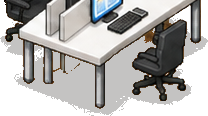
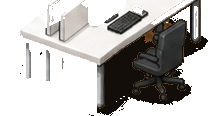
feat(web): office 桌套件重切与紫衣演示 B 位落座——后椅回 BACK、工位坐进近侧椅
- desk sprite 重切：后椅整把移回 BACK（208×167，含远侧显示器），FRONT 只留近侧桌面/前椅挡腿；URL 加 ?v=chair2 强刷 public/ 无 hash PNG
- constants 新增 purpleDemoSeat()：0 号接待员走 A 位（前台柜台后），工位紫衣走 B 位（近侧可见椅）
- B 位深度 = base+1 画在 front 之上，sprite 水平翻转朝向桌子（anchor 0.5 无位移）；A 位维持 base-1 挡腿
- rearChair 锚点重标定（dx=-50, dy=18）；working 打字帧对 A/B 两朝向均生效

diff --git a/apps/web/src/components/office/constants.ts b/apps/web/src/components/office/constants.ts
@@ -19,7 +19,8 @@ export const TILE_H = 32;
  * 7 个桌位，按背景图 office-scene-bg.png（1672×941，world = px / 1.30625）标定：
  *   中排 3 桌 + 下排 3 桌 + 前台柜台。坐标 = 该桌「落座基准点」，
  *   桌套件/椅位全部由 DESK_SET 的相对偏移从此点推出（角色腰线对齐桌远缘）。
- * 顺序即分配顺序，前台柜台放最后（6 agent 时不占用，留给 F 视角接待员）。
+ * 顺序即 getDesk() 的分配顺序；紫衣演示走 purpleDemoSeat()（0 号占前台柜台，
+ * 其余按工作位顺序坐 B 位近侧椅）。
  */
 export const DESKS: DeskSlot[] = [
   { id: "lead-1",   x: 747, y: 326, role: "lead" },   // 中排中桌
@@ -91,6 +92,21 @@ export function getDesk(agentIndex: number, role: string): DeskSlot {
   return pool[agentIndex % Math.max(pool.length, 1)] ?? DESKS[agentIndex % DESKS.length];
 }
 
+/**
+ * 紫衣演示落座：0 号接待员 A（柜台后），其余工位 B（近侧可见椅）。
+ * 近侧椅完整出现在画面里，人 zIndex 高于 front 才能「坐进椅子」；
+ * 远侧后椅只作空位（角色比椅背大，后座上看不见坐姿）。
+ */
+export function purpleDemoSeat(index: number): { desk: DeskSlot; variant: "A" | "B" } {
+  const reception = DESKS.find((d) => d.id === "review-2") ?? DESKS[DESKS.length - 1];
+  const work = DESKS.filter((d) => d.id !== "review-2");
+  if (index === 0) return { desk: reception, variant: "A" };
+  return {
+    desk: work[(index - 1) % Math.max(work.length, 1)],
+    variant: "B",
+  };
+}
+
 // ── Isometric Projection ──────────────────────────────────────────
 
 export function isoToScreen(tx: number, ty: number) {
@@ -121,11 +137,10 @@ export const ASSET_URLS = {
    *  不与角色交互的陈设；桌椅全部改由引擎 sprite 渲染。原带桌版备份
    *  office-scene-bg.with-desks.bak.png）。场景内缩到 WORLD_W×WORLD_H = 1280×720。 */
   OFFICE_BG: "/office-assets/office-scene-bg.png",
-  /** 分层家具 sprite（2026-08-30 差分抠图：带桌原图 − 去桌背景 = 前景，
-   *  100% 原场景像素/风格/光影）。桌套件按桌面上缘水平切两片：
-   *  BACK = 后椅+桌远侧（画在角色之下），FRONT = 桌面+显示器+前椅（画在角色之上，遮住躯干下半） */
-  OFFICE_DESK_BACK: "/office-assets/office-desk-back.png",
-  OFFICE_DESK_FRONT: "/office-assets/office-desk-front.png",
+  /** 分层家具 sprite。BACK = 后椅+远侧显示器；FRONT = 近侧桌面/前椅（挡腿）。
+   *  白桌面楔必须留在 FRONT。query 只为强刷 public/ 无 hash 的 PNG。 */
+  OFFICE_DESK_BACK: "/office-assets/office-desk-back.png?v=chair2",
+  OFFICE_DESK_FRONT: "/office-assets/office-desk-front.png?v=chair2",
   OFFICE_FRONTDESK_SET: "/office-assets/office-frontdesk-set.png",
   /** 紫衣女孩打字动画表（2026-08-30：参考图锚定生成，2×2 = 4 帧打字循环。
    *  实测为全身坐姿帧（非腰截断）：内容底 y=83 ≈ anchor 0.875×96=84，即 0.875 处是鞋底；
@@ -207,14 +222,14 @@ export const PURPLE_DEMO_ALL_AGENTS = true;
  * PURPLE_DEMO_ALL_AGENTS = false 即可按角色就位。
  *
  * ── 视角 / 遮挡硬约束（改动前务必读）─────────────────────────
- * 1. 演示角色强制 A 朝向（rearChair 后椅），与其余紫衣角色同朝向。
- *    B 朝向（frontChair）角色落在 front 片高度区间内且 zIndex 更低，
- *    会被「桌面+显示器+前椅」整片盖死，不可用于坐姿演示。
+ * 1. 接待员走 A（柜台后，无椅）。工位紫衣走 B（近侧可见椅）：zIndex = base+1
+ *    画在 front 片前面，人坐进那把空着的黑椅；scale.x 翻转朝向桌子。
+ *    远侧后椅留在 BACK，空着（角色比椅背大，后座上看不见「坐进椅子」）。
  * 2. 演示循环只在**坐姿系**状态间切换（working 打字 ↔ idle 坐姿呼吸），
  *    绝不触发 walking / talking / alert：
  *      - walking 序列会驱动角色离座平移，坐姿与桌面的遮挡关系当场失效；
  *      - talking/alert 序列在 dev sheet 中是站姿/跳跃帧，一旦播放人物会
- *        整个浮到桌面之上（A 位遮挡只有约 7.8px，压不住站立姿态）。
+ *        整个浮到桌面之上。
  * 3. 角色位置冻结在座位上（atDesk 恒 true），不做 roaming / 聚集位移。
  */
 export const FIRST_AGENT_FULL_ANIMATIONS = true;
@@ -247,9 +262,10 @@ export interface FurniturePiece {
 }
 
 /**
- * 桌套件几何（差分抠图 + 地板色清理 + 按桌面上缘切两片；world = px / 1.30625）。
- * 抠图取自 build-1 槽位（DESKS[2] = 510,278），偏移量均相对该槽位实测。
- * 深度三层：back（角色之下）→ 角色 → front（角色之上，桌面/显示器遮住躯干下半与前臂）。
+ * 桌套件几何（world = 原图像素 / 1.30625）。抠图取自 build-1 槽位（DESKS[2]）。
+ * 深度三层：back（后椅 + 远侧显示器，角色之下）→ 角色 → front（近侧桌面/前椅，挡腿）。
+ * FRONT 顶边按列走等距远缘 `y = -20.8 + 0.5*|rel_x|`；白桌面楔留在 FRONT，
+ * 禁止放进 BACK（人会坐到桌面上）。后椅整把在 BACK，椅背从肩后露出。
  */
 export const DESK_SET: {
   back: FurniturePiece | null;
@@ -257,27 +273,20 @@ export const DESK_SET: {
   rearChair: { dx: number; dy: number };
   frontChair: { dx: number; dy: number };
 } = {
-  back: { w: 153.9, h: 41.3, leftTop: { x: -75.9, y: -62.1 } },   // 桌远侧+显示器背（原座椅已抠除，见 rearChair 注）
+  back: { w: 159.2, h: 127.8, leftTop: { x: -78.2, y: -62.1 } },  // 208×167：后椅+远侧显示器
   front: { w: 159.2, h: 88.8, leftTop: { x: -78.2, y: -20.8 } },
   /**
    * 后椅（A 位）：锚点 x / 鞋底锚点 y（相对槽位，world 单位）。
-   * 2026-09-01 三次修正（扫参 + 浏览器实拍复核）：
-   *   dx=-55 → 人坐桌面左缘之外、腿悬空（用户截图①）；
-   *   dx=-15 → 人正落在隔板后面，front 片的隔板/桌面远缘在胸口横切躯干，
-   *             头与身体之间出现"割裂"缝（用户截图②）；
-   *   dx=-40, dy=-7 → 躯干完整无横切，但人偏高、腿露在桌外；
-   *   dx=-40, dy=8 → 隔板左侧不切身 + 桌面远缘切腰、腿隐入桌下
-   *             （.workbuddy/tmp/office_scan3.png 中排左格实测；行=dx{-48,-40,-32}、
-   *             列=dy{8,16,24}；dx>-32 会压到隔板（隔板世界 x≈-4 起），
-   *             dy>=16 头部沉到桌面线）。
+   * 2026-09-04：后椅从 BACK 抠除后人看起来坐在桌面上、近侧空椅才像「椅子」。
+   * 椅背加回 BACK 后扫参：dx=-50 对准椅心，dy=18 腰线贴近该列远缘（腿被 FRONT 挡住）。
+   * dx=-40 偏右离开椅背；dy=8 整个人压在桌面上。
    */
-  rearChair: { dx: -40.0, dy: 8.0 },
+  rearChair: { dx: -50.0, dy: 18.0 },
   /**
    * 前椅（B 位）椅面中心 x / 鞋底锚点 y（相对槽位）。
+   * 紫衣演示工位走这个座位：z 在 front 之上，人水平翻转朝向桌子。
    * 2026-08-31 实测：前椅完整可见，bbox rel_x 22.8..64.2（中心 43.5）、
-   * 椅背顶 -7.8、椅脚底 +55.8；按后椅「椅背顶→椅面顶 ≈ +19.5」的比例推得
-   * 椅面顶 ≈ +11.7，鞋底锚点 = 椅面顶 + 16.8（帧内臀底到鞋底距离 ×0.8）≈ +28.5。
-   * 旧值 (27.4, 61.2) 把鞋底放到椅脚处，坐姿会沉进椅子 33px。
+   * 椅背顶 -7.8、椅脚底 +55.8；椅面顶 ≈ +11.7，鞋底 = 椅面顶 + 16.8 ≈ +28.5。
    */
   frontChair: { dx: 43.5, dy: 28.5 },
 };
@@ -301,8 +310,8 @@ export function furnitureSet(desk: DeskSlot): FurnitureSet {
 
 /**
  * 深度基准线（world y）：取 front 片底边。
- * front 片 zIndex = base，落座角色 = base - 1，back 片 = base - 2 →
- * 「back → 角色 → front」三层顺序固定，且跨桌用同一基准线不产生穿插。
+ * front 片 zIndex = base；A 位角色 = base-1（被桌面挡腿），B 位 = base+1（坐进近侧椅）；
+ * back 片 = base-2。跨桌用同一基准线不产生穿插。
  */
 export function deskDepthBase(desk: DeskSlot): number {
   const set = furnitureSet(desk);

diff --git a/apps/web/src/components/office/OfficeScene.ts b/apps/web/src/components/office/OfficeScene.ts
@@ -32,6 +32,7 @@ import {
   MAX_VISIBLE_AGENTS,
   isoToScreen,
   getDesk,
+  purpleDemoSeat,
   ASSET_URLS,
   ASSET_LOAD_LIST,
   SHEET_LAYOUTS,
@@ -265,8 +266,9 @@ export class OfficeScene {
     const actorsLayer = this.layers.actors;
     visible.forEach((agent, index) => {
       if (!this.actorMap.has(agent.id)) {
-        const desk = PURPLE_DEMO_ALL_AGENTS
-          ? DESKS[index % DESKS.length]
+        const demoSeat = PURPLE_DEMO_ALL_AGENTS ? purpleDemoSeat(index) : null;
+        const desk = demoSeat
+          ? demoSeat.desk
           : getDesk(index, agent.role);
         // 单角色动画演示：索引 0 切回 dev 满帧 sheet（FSM 全状态可播：
         // 呼吸/坐下/坐姿/打字/起身…），其余角色沿用紫衣 sheet 保持视觉统一。
@@ -281,10 +283,14 @@ export class OfficeScene {
         const sheetTex = this.sheetFrames[sheetUrl] ?? null;
         const isPurple = sheetUrl === ASSET_URLS.AGENT_PURPLE;
         const hasFrameSeqs = sheetUrl === ASSET_URLS.AGENT_DEV || isPurple;
-        // 落座锚定：脚底坐到椅面（紫衣/dev 表都是全身坐姿帧），下半身靠桌套件 zIndex 遮挡。
-        // 朝向：演示角色与紫衣角色统一走 A 朝向（后椅）。B 朝向角色落在 front 片高度
-        // 区间内、zIndex 更低，会被「桌面+显示器+前椅」整片盖死，不可用于坐姿演示。
-        const variant: "A" | "B" = isPurple || isDemoAgent ? "A" : index % 2 === 0 ? "A" : "B";
+        // 落座：紫衣演示工位走 B（近侧可见椅，z 在 front 之上）；接待员/演示 0 号走 A。
+        const variant: "A" | "B" = demoSeat
+          ? demoSeat.variant
+          : isPurple || isDemoAgent
+            ? "A"
+            : index % 2 === 0
+              ? "A"
+              : "B";
         const seat = seatPosFor(sheetUrl, desk, variant);
         this.agentSheetUrl.set(agent.id, sheetUrl);
         const actor = new OfficeActor(
@@ -315,9 +321,8 @@ export class OfficeScene {
       const actor = this.actorMap.get(agent.id);
       if (!actor) return;
 
-      const desk = PURPLE_DEMO_ALL_AGENTS
-        ? DESKS[index % DESKS.length]
-        : getDesk(index, agent.role);
+      const demoSeat = PURPLE_DEMO_ALL_AGENTS ? purpleDemoSeat(index) : null;
+      const desk = demoSeat ? demoSeat.desk : getDesk(index, agent.role);
       const sheetUrl = this.agentSheetUrl.get(agent.id) ?? ASSET_URLS.AGENT_DEV;
       const isDemoAgent = FIRST_AGENT_FULL_ANIMATIONS && index === 0;
 
@@ -328,10 +333,7 @@ export class OfficeScene {
 
       // ── 单角色动画演示 ────────────────────────────────────────
       // 位置冻结在座位上，FSM 在「打字 ↔ 坐姿呼吸」间周期性切换。
-      // 刻意不参与 talking / 聚集 / 散步：dev sheet 里点头与行走是站姿/位移序列，
-      // 一旦播放人物会浮到桌面之上或走出座位 —— A 位遮挡只有约 7.8px，
-      // 压不住站立姿态，视角与遮挡关系当场失效。
-      // （ping 触发的 alert 是用户主动点击的瞬时反馈，保留。）
+      // 刻意不参与 talking / 聚集 / 散步：dev sheet 里点头与行走是站姿/位移序列。
       if (isDemoAgent) {
         processing = now % FIRST_AGENT_DEMO_CYCLE_MS < FIRST_AGENT_TYPE_MS;
         talking = false;
@@ -342,14 +344,14 @@ export class OfficeScene {
       let ty: number;
       let atDesk = false;
       const purpleDemo = PURPLE_DEMO_ALL_AGENTS;
-      // 演示角色强制 A 朝向（后椅）：B 朝向角色落在 front 片高度区间内且 zIndex
-      // 更低，会被「桌面+显示器+前椅」整片盖死，不可用于坐姿演示。
-      const sitVariant: "A" | "B" =
-        purpleDemo || isDemoAgent || index % 2 === 0 ? "A" : "B";
+      const sitVariant: "A" | "B" = demoSeat
+        ? demoSeat.variant
+        : isDemoAgent || index % 2 === 0
+          ? "A"
+          : "B";
 
       if (isDemoAgent) {
-        // 演示角色：常驻 A 椅位，不挪位
-        const seat = seatPosFor(sheetUrl, desk, "A");
+        const seat = seatPosFor(sheetUrl, desk, sitVariant);
         tx = seat.x;
         ty = seat.y;
         atDesk = true;
@@ -362,8 +364,7 @@ export class OfficeScene {
         tx = wp.x;
         ty = wp.y;
       } else if (purpleDemo) {
-        // 紫衣女孩演示：常驻 A 椅位打字，聊天只弹气泡不挪位
-        const seat = seatPosFor(sheetUrl, desk, "A");
+        const seat = seatPosFor(sheetUrl, desk, sitVariant);
         tx = seat.x;
         ty = seat.y;
         atDesk = true;
@@ -387,8 +388,9 @@ export class OfficeScene {
         sitVariant,
       );
 
-      // 落座时把深度钉在桌套件基准之下（被自己的桌面遮住）；走动/离桌回落自身 y
-      actor.setDepth(atDesk ? Math.round(deskDepthBase(desk)) - 1 : null);
+      // A 位：z = base-1，被自己的桌面挡腿；B 位：z = base+1，坐在近侧可见椅里
+      const base = Math.round(deskDepthBase(desk));
+      actor.setDepth(atDesk ? (sitVariant === "B" ? base + 1 : base - 1) : null);
 
       actor.update(delta);
     });
@@ -436,9 +438,10 @@ export class OfficeScene {
   // ── Private: Environment Drawing ──────────────────────────────
 
   /**
-   * 桌套件 sprite（bg 模式专用）：每桌两片（back = 后椅+桌远侧，front = 桌面+显示器+前椅），
-   * 前台槽位只有 front 片。深度：back = base-2，角色 = base-1，front = base
-   * → 「back → 角色 → front」三层固定顺序，桌面/显示器遮住角色躯干下半与前臂。
+   * 桌套件 sprite（bg 模式专用）：每桌两片。
+   * back = 后椅 + 远侧显示器（角色之下）；front = 近侧桌面/前椅（角色之上，只挡腿）。
+   * 白桌面楔必须在 front，不能进 back。前台槽位只有 front 片。
+   * 深度：back = base-2，A 角色 = base-1，front = base，B 角色 = base+1。
    */
   private _drawFurnitureSprites(parent: PIXI.Container): void {
     for (const desk of DESKS) {

diff --git a/apps/web/src/components/office/OfficeActor.ts b/apps/web/src/components/office/OfficeActor.ts
@@ -199,8 +199,7 @@ export class OfficeActor {
     if (this.sprite) this.sprite.alpha = a;
   }
 
-  /** 落座时的深度覆盖值（= 所属桌套件 base - 1，保证被自己的桌面遮住）；
-   *  null = 走动/离桌，按自身 y 排序 */
+  /** 落座深度覆盖（A = base-1 挡腿；B = base+1 坐进近侧椅）；null = 走动按自身 y */
   private depthOverride: number | null = null;
 
   /** 设置落座深度基准（由 OfficeScene 每帧传入；离桌传 null 回落到自身 y） */
@@ -233,6 +232,12 @@ export class OfficeActor {
     this.container.zIndex =
       this.depthOverride ?? Math.round(this.container.y);
 
+    // B 位近侧椅：水平翻转朝向桌子（紫衣/dev 帧默认朝右）
+    if (this.sprite) {
+      const sx = Math.abs(this.sprite.scale.x);
+      this.sprite.scale.x = this.atDesk && this.sitVariant === "B" ? -sx : sx;
+    }
+
     // 动画选型：帧动画（dev 女孩 sheet）优先，旧单帧 sheet/程序化 body 走摆动兜底
     const state = this.fsm.current;
     // 到桌坐下 / 离桌起身（仅帧动画模式）：坐下一次性动作 → 坐姿循环；离桌起身一次性 → 行走
@@ -252,8 +257,8 @@ export class OfficeActor {
           : this.sitPhase === "getup"
             ? "getup"
             : this.sitPhase === "sitting" && !walking
-              ? state === "working" && this.sitVariant === "A"
-                ? "working"   // 打字帧 = 坐着朝右打（匹配 A 朝向的桌右）；B 朝向保持坐姿循环
+              ? state === "working"
+                ? "working"
                 : this.sitVariant === "B"
                   ? "sitting_b"
                   : "sitting"
